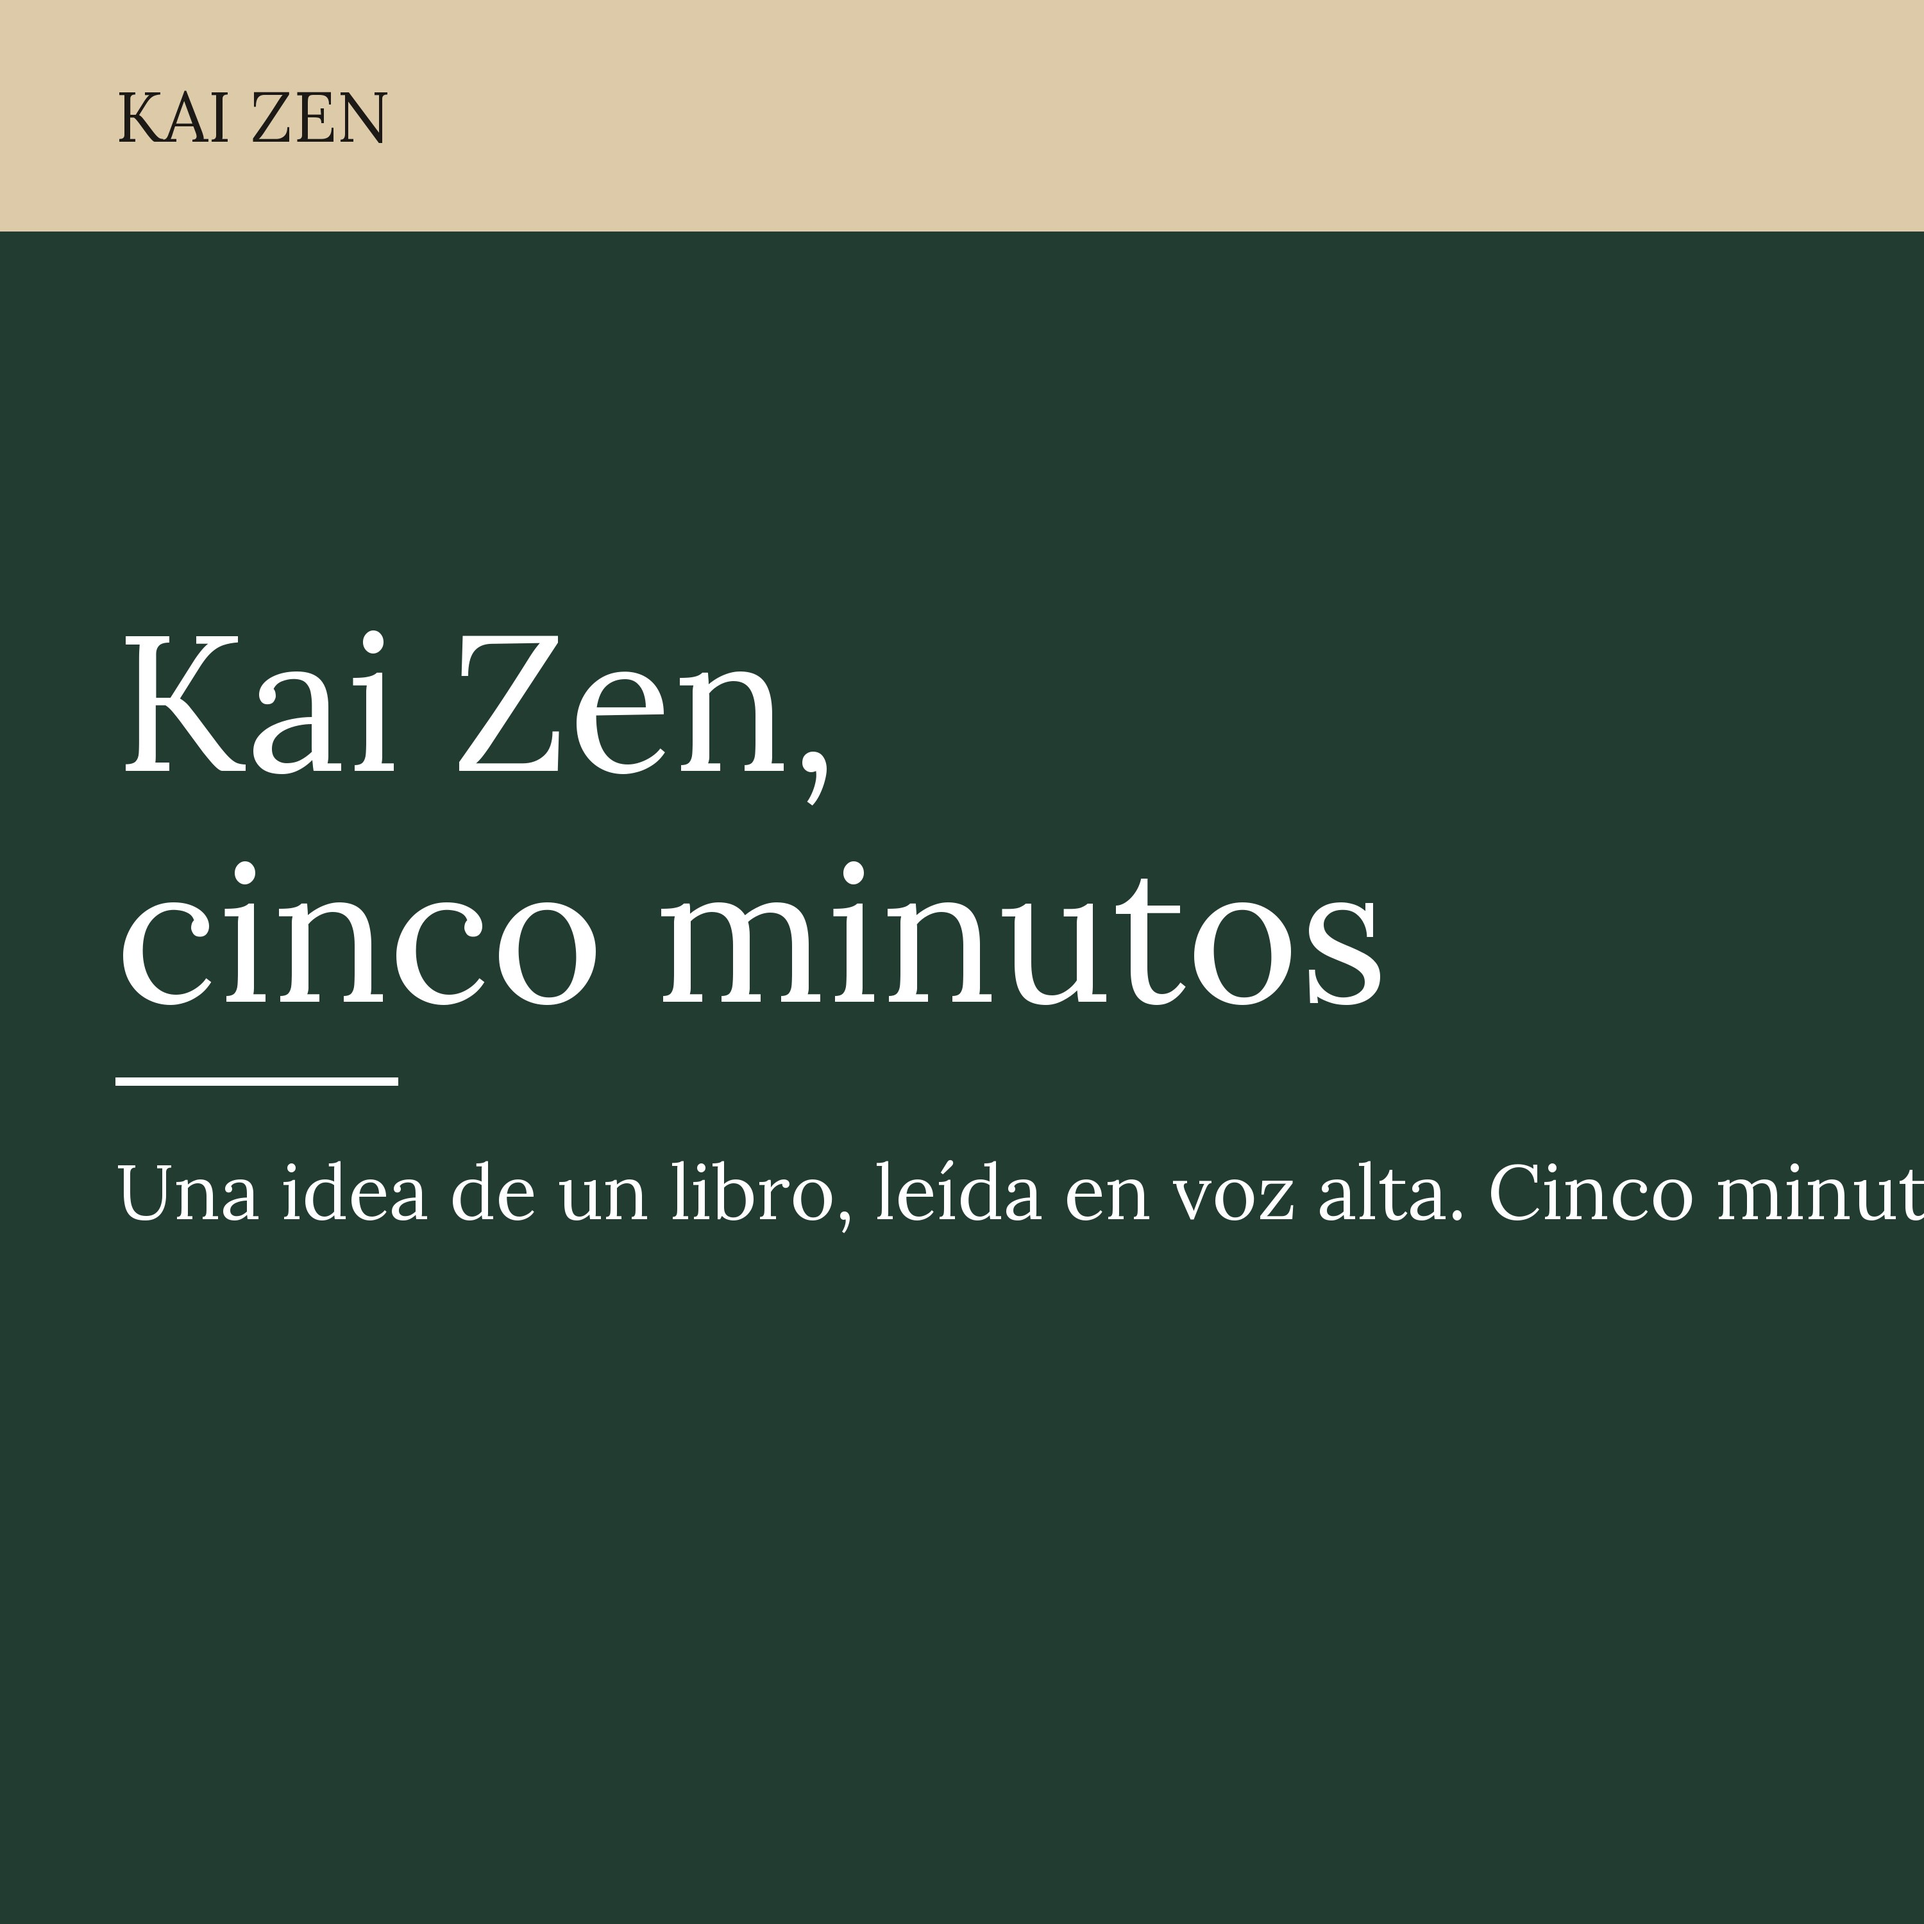
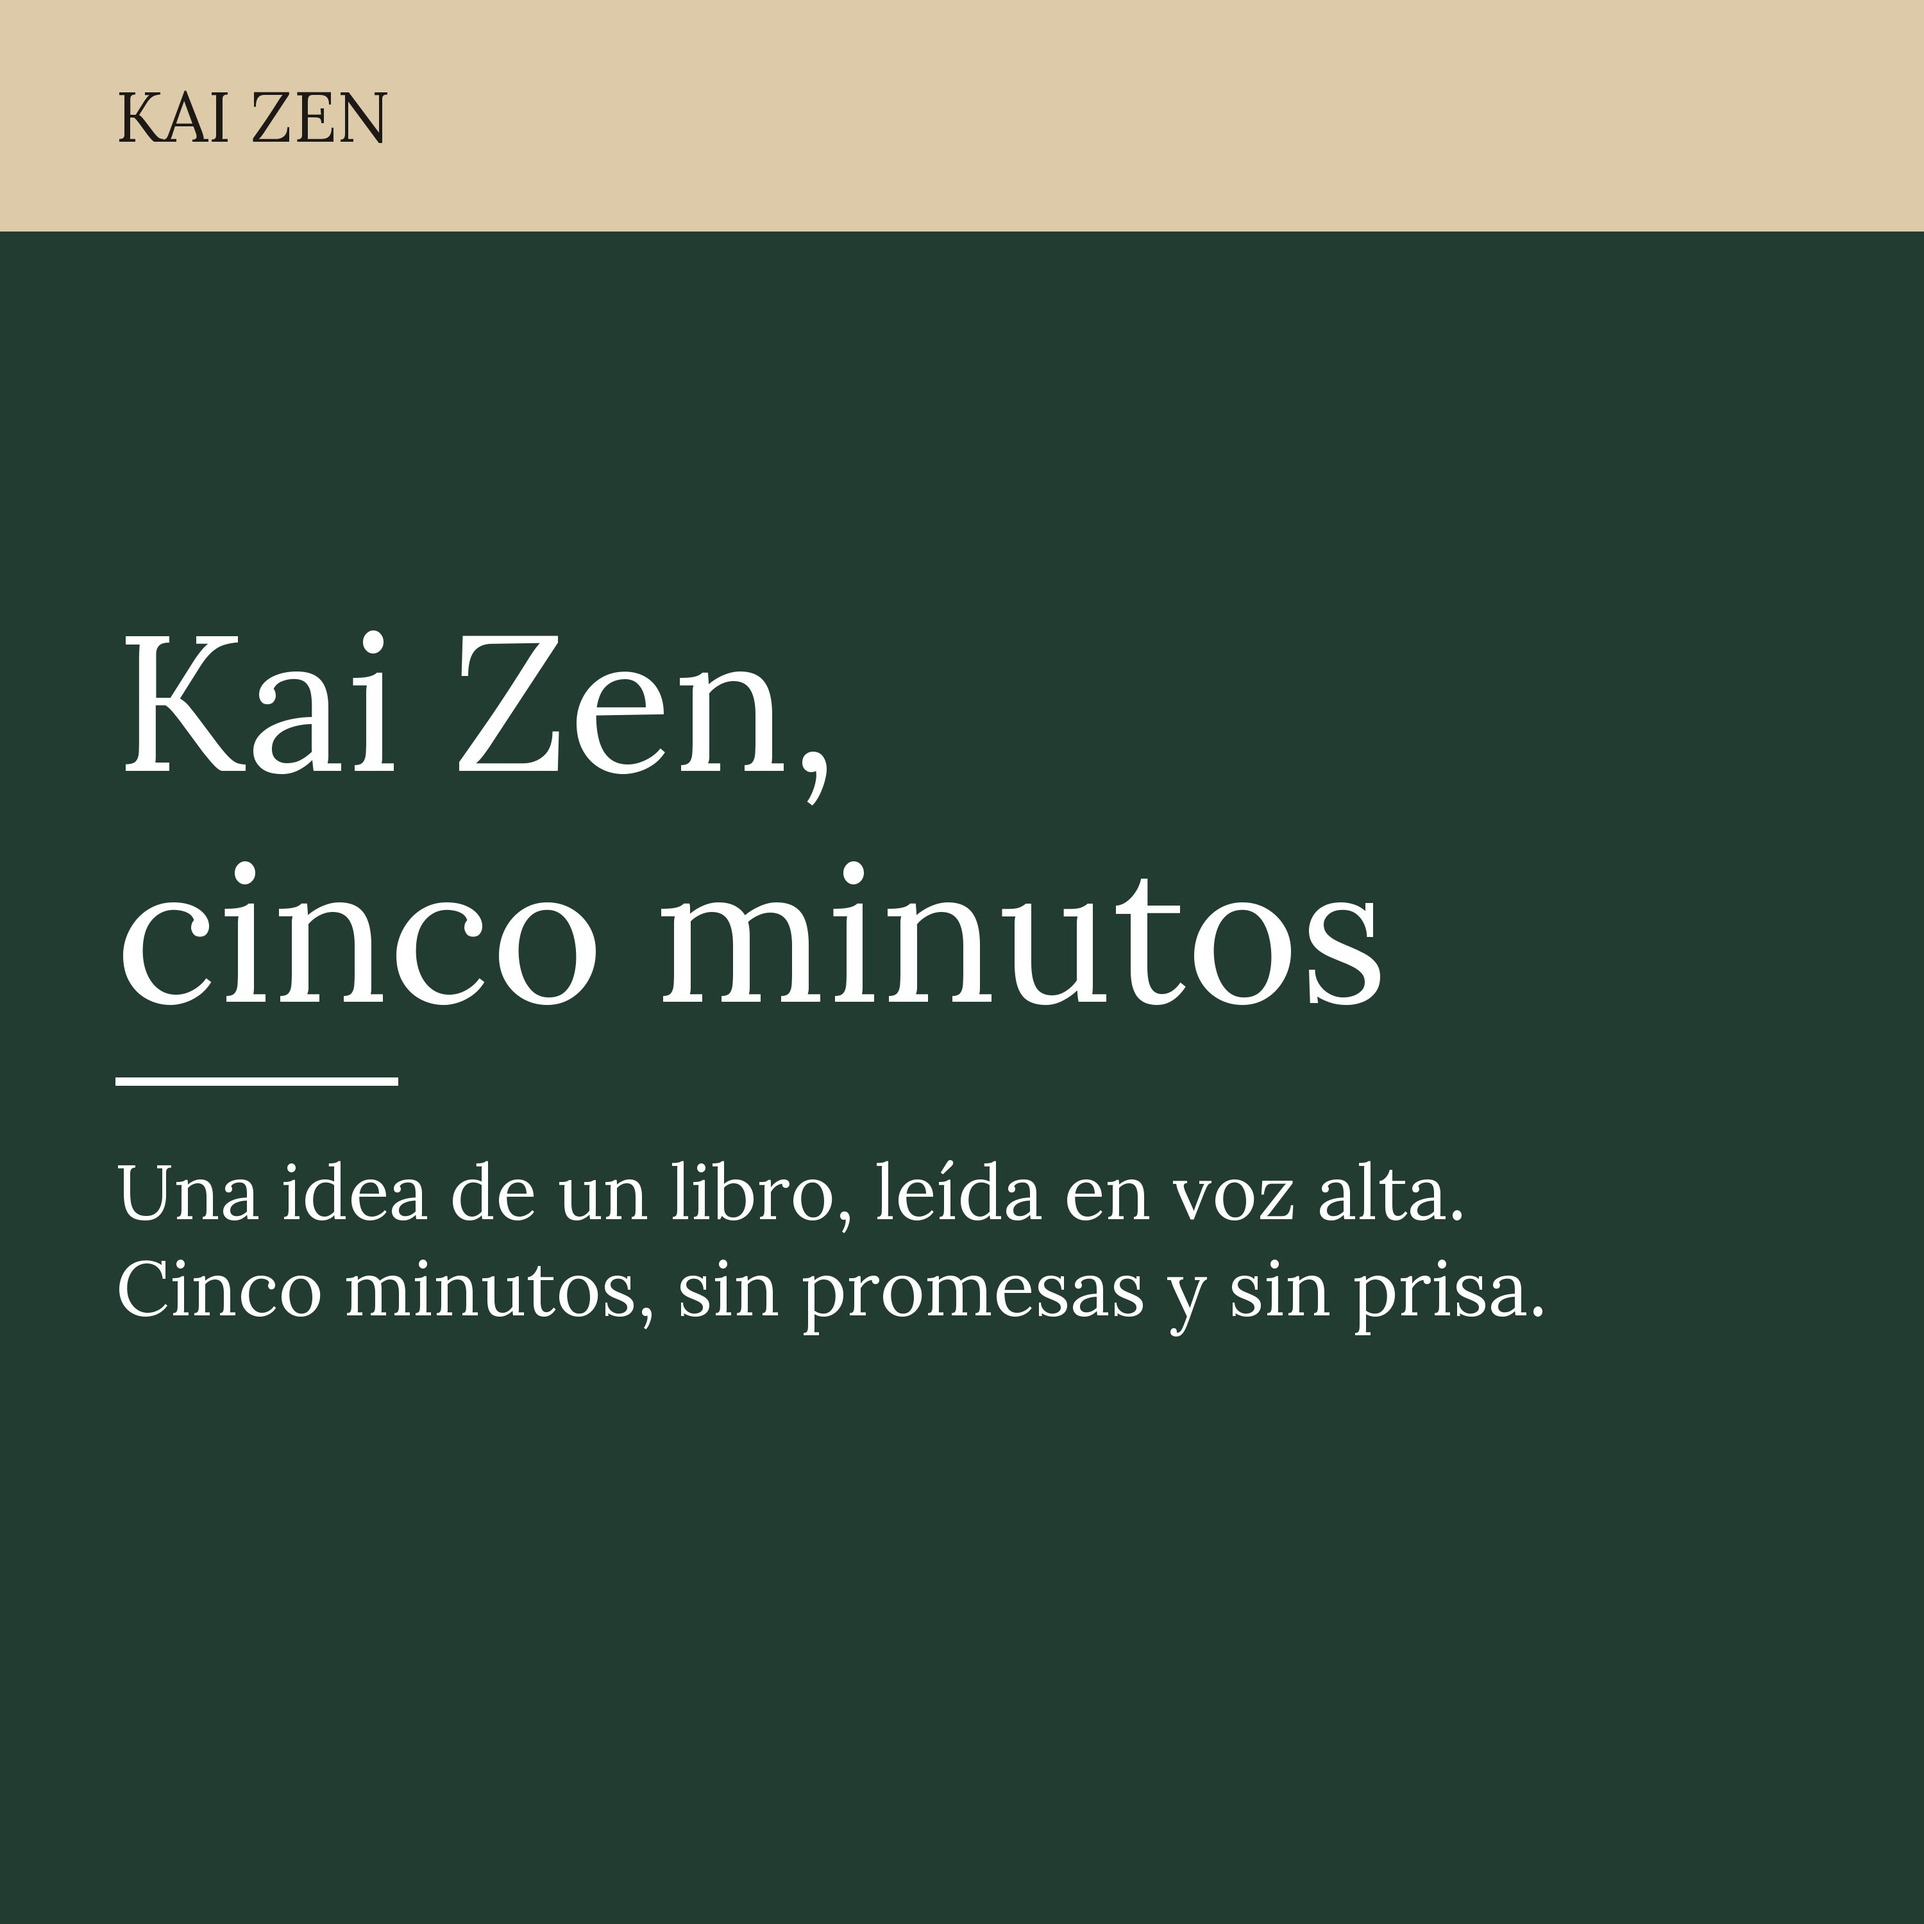
Base de datos en modo DELETE, portada del pódcast y plan semanal del 21-09
SQLite en WAL dejaba cambios en el fichero -wal (ignorado por git); con DELETE todo
queda en atomos.sqlite. Portada 3000x3000 con subtítulo ajustado.

Changed region(s): [[0.062, 0.589, 1.0, 0.682]]

diff --git a/herramientas/portada_podcast.py b/herramientas/portada_podcast.py
@@ -49,7 +49,12 @@ def main() -> int:
         d.text((180, y), parte.strip(), font=f_titulo, fill="#ffffff")
         y += 360
     d.rectangle([180, y + 60, 620, y + 72], fill="#ffffff")
-    d.text((180, y + 160), pod.get("descripcion", "")[:60], font=f_sub, fill="#ffffff")
+    import textwrap
+
+    yy = y + 160
+    for linea in textwrap.wrap(pod.get("descripcion", ""), width=42)[:3]:
+        d.text((180, yy), linea, font=f_sub, fill="#ffffff")
+        yy += 150
     destino = RAIZ_REPO / "web" / pod.get("ruta_web", "static/podcast").strip("/") / "portada.jpg"
     destino.parent.mkdir(parents=True, exist_ok=True)
     im.save(destino, "JPEG", quality=88, optimize=True)

diff --git a/agentes/db.py b/agentes/db.py
@@ -143,7 +143,8 @@ def conectar(ruta: Path) -> sqlite3.Connection:
     con = sqlite3.connect(ruta)
     con.row_factory = sqlite3.Row
     con.execute("PRAGMA foreign_keys = ON")
-    con.execute("PRAGMA journal_mode = WAL")
+    # La base viaja en git: modo DELETE para que todo quede en el fichero principal (WAL deja cambios en -wal, que git ignora).
+    con.execute("PRAGMA journal_mode = DELETE")
     con.executescript(ESQUEMA)
     _migrar(con)
     return con
